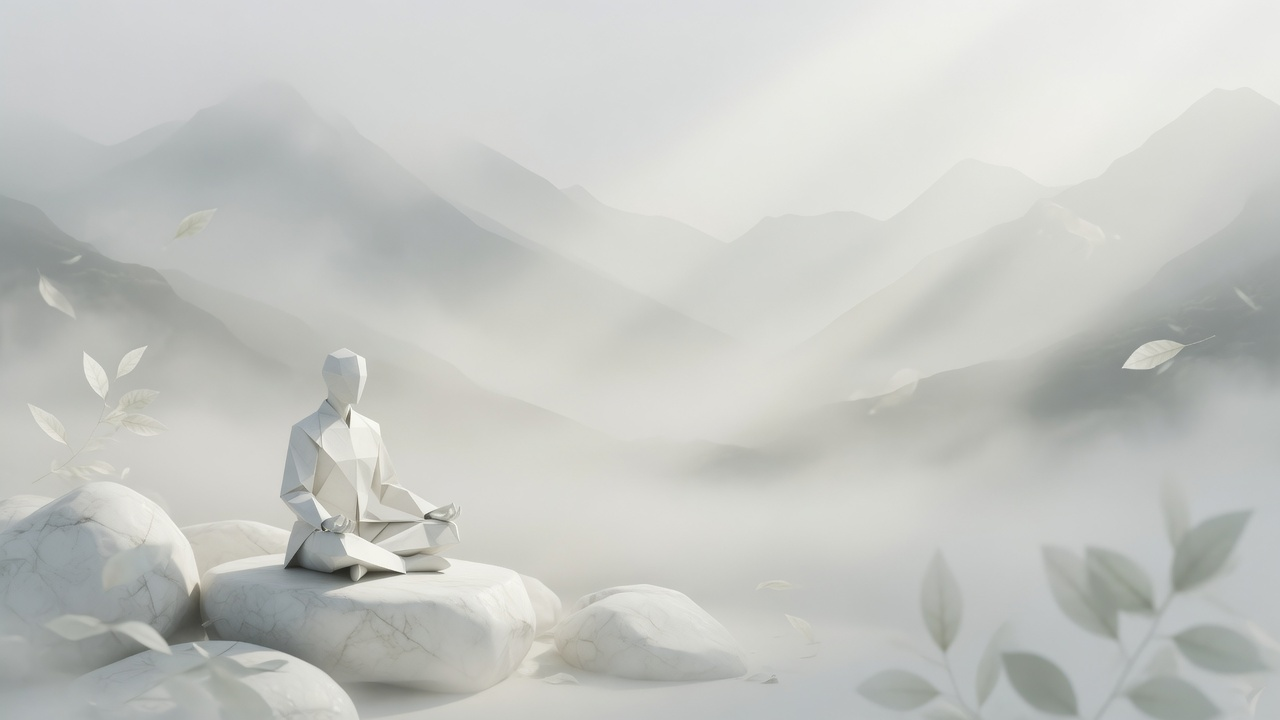
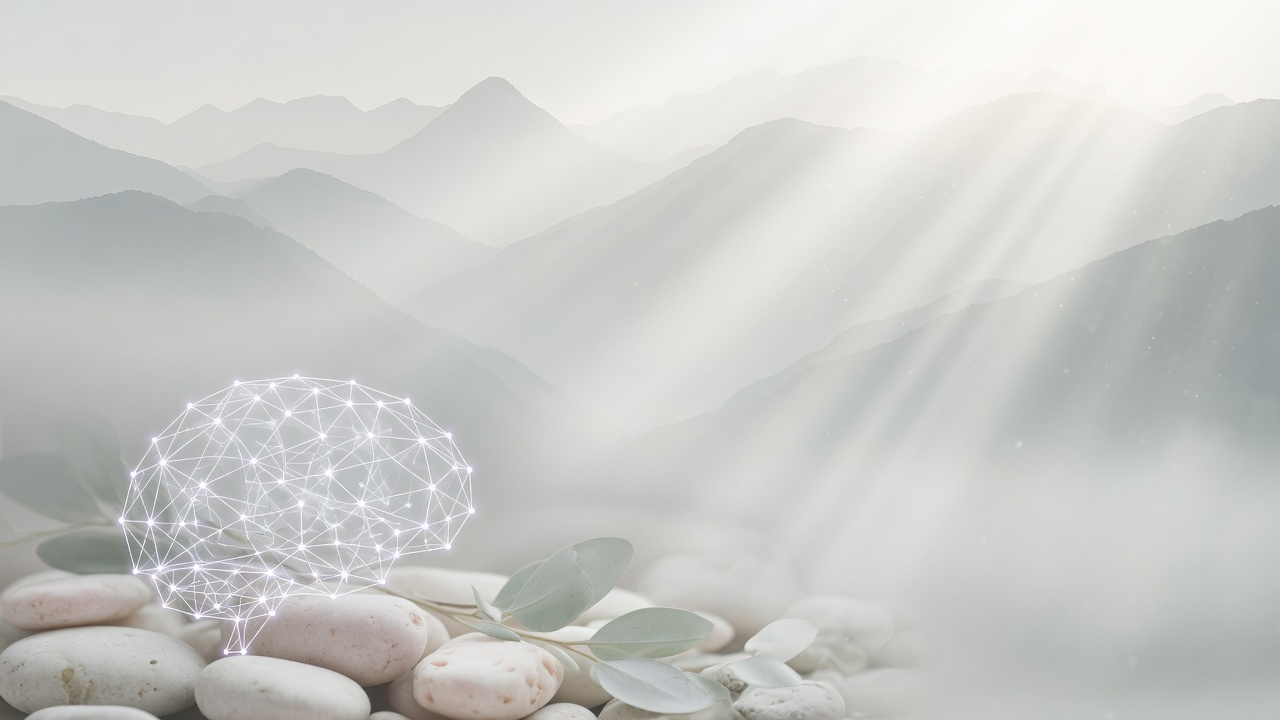
Unique neural hero art, light/dark mode, Teluk Intan roots
Replace Parva-like figure with geometric brain landscapes (light +
dark variants), add theme toggle with persistence, and correct
hometown copy to Teluk Intan.

diff --git a/index.html b/index.html
@@ -122,10 +122,11 @@ nav.scrolled{
   backdrop-filter:blur(20px) saturate(1.15);-webkit-backdrop-filter:blur(20px) saturate(1.15);
   box-shadow:0 8px 32px -20px rgba(20,27,45,.12);
 }
-.nav-inner{max-width:var(--max);margin:0 auto;padding:0 28px;height:64px;display:flex;align-items:center;justify-content:space-between}
+.nav-inner{max-width:var(--max);margin:0 auto;padding:0 28px;height:64px;display:flex;align-items:center;justify-content:space-between;gap:16px}
+.nav-actions{display:flex;align-items:center;gap:8px;margin-left:auto}
 .logo{font-family:var(--mono);font-size:.76rem;letter-spacing:.2em;color:var(--muted);text-decoration:none;transition:color .3s}
 .logo:hover{color:var(--fg)}
-.nav-links{display:flex;align-items:center;gap:28px}
+.nav-links{display:flex;align-items:center;gap:28px;margin-left:auto}
 .nav-links a{font-family:var(--mono);font-size:.66rem;letter-spacing:.1em;text-transform:uppercase;color:var(--faint);text-decoration:none;transition:color .2s}
 .nav-links a:hover{color:var(--fg)}
 .nav-cta{
@@ -160,13 +161,9 @@ body.nav-open{overflow:hidden}
   padding:110px 0 48px;overflow:hidden;
   color:var(--fg);
 }
-.hero-bg{position:absolute;inset:0;z-index:0;pointer-events:none}
-.hero-bg img{
-  width:100%;height:100%;object-fit:cover;object-position:center 62%;
-  transform:scale(1.02);
-}
+.hero-bg{position:absolute;inset:0;z-index:0;pointer-events:none;overflow:hidden}
 .hero-bg::after{
-  content:'';position:absolute;inset:0;
+  content:'';position:absolute;inset:0;z-index:1;
   background:
     linear-gradient(180deg,rgba(244,245,248,.5) 0%,rgba(244,245,248,.12) 32%,rgba(244,245,248,.05) 58%,rgba(244,245,248,.55) 88%,var(--bg) 100%),
     radial-gradient(ellipse 70% 55% at 50% 38%,rgba(255,255,255,.5),transparent 70%);
@@ -384,6 +381,7 @@ footer{border-top:1px solid var(--line);padding:80px 0 48px;background:linear-gr
 }
 @media(max-width:720px){
   .nav-links{display:none}
+  .nav-actions{margin-left:auto}
   .menu-btn{display:flex;align-items:center;justify-content:center}
   .section{padding:80px 0}
   .container{padding:0 22px}
@@ -405,7 +403,105 @@ footer{border-top:1px solid var(--line);padding:80px 0 48px;background:linear-gr
   .live-dot{animation:none}
   .card{transition:none}
 }
+
+/* Dark theme */
+html[data-theme="dark"]{
+  --bg:#0b0c10;
+  --bg-soft:#12141a;
+  --fg:#eef0f5;
+  --muted:#9aa3b5;
+  --faint:#6b7385;
+  --line:rgba(255,255,255,.08);
+  --line-strong:rgba(255,255,255,.14);
+  --accent:#8eb4ff;
+  --accent-soft:#a8c4ff;
+  --accent-2:#a8b6ff;
+  --accent-3:#c4b5fd;
+  --gold:#e0b96a;
+  --gold-soft:#e8c478;
+  --glass:rgba(18,20,28,.72);
+  --glass-strong:rgba(24,27,36,.88);
+  --shadow:0 20px 50px -28px rgba(0,0,0,.55);
+  --shadow-hover:0 28px 60px -24px rgba(0,0,0,.65);
+}
+html[data-theme="dark"] .orb-a{
+  background:radial-gradient(circle,rgba(100,140,220,.16),transparent 68%);
+}
+html[data-theme="dark"] .orb-b{
+  background:radial-gradient(circle,rgba(80,100,160,.12),transparent 70%);
+}
+html[data-theme="dark"] .vignette{
+  background:
+    radial-gradient(ellipse at 50% 0%,rgba(255,255,255,.04),transparent 55%),
+    linear-gradient(180deg,transparent 0%,rgba(11,12,16,.5) 100%);
+}
+html[data-theme="dark"] .grad{
+  background:linear-gradient(135deg,#8eb4ff,#a8b6ff 50%,#c4b5fd);
+  -webkit-background-clip:text;-webkit-text-fill-color:transparent;background-clip:text;
+}
+html[data-theme="dark"] .chip{border-color:rgba(142,180,255,.28);color:var(--accent);background:rgba(142,180,255,.1)}
+html[data-theme="dark"] .chipg{border-color:rgba(224,185,106,.3);color:var(--gold);background:rgba(224,185,106,.1)}
+html[data-theme="dark"] .btn-primary{background:#eef0f5;color:#0b0c10;box-shadow:0 16px 40px -18px rgba(142,180,255,.35)}
+html[data-theme="dark"] .btn-primary:hover{background:#fff}
+html[data-theme="dark"] .btn-ghost{background:rgba(255,255,255,.06);color:var(--muted);border-color:var(--line-strong)}
+html[data-theme="dark"] .btn-ghost:hover{background:rgba(255,255,255,.1);color:var(--fg)}
+html[data-theme="dark"] nav.scrolled{
+  background:rgba(11,12,16,.82);
+  box-shadow:0 8px 32px -20px rgba(0,0,0,.5);
+}
+html[data-theme="dark"] .nav-cta{background:rgba(255,255,255,.06)}
+html[data-theme="dark"] .nav-cta:hover{background:rgba(255,255,255,.1)}
+html[data-theme="dark"] .mobile-nav{background:rgba(11,12,16,.97)}
+html[data-theme="dark"] .hero-badge{background:rgba(18,20,28,.7);color:var(--muted)}
+html[data-theme="dark"] .hero-bg::after{
+  background:
+    linear-gradient(180deg,rgba(11,12,16,.55) 0%,rgba(11,12,16,.2) 32%,rgba(11,12,16,.15) 58%,rgba(11,12,16,.7) 88%,var(--bg) 100%),
+    radial-gradient(ellipse 70% 55% at 50% 38%,rgba(80,110,180,.12),transparent 70%);
+}
+html[data-theme="dark"] .flagship-side,
+html[data-theme="dark"] .mini-stat{background:rgba(255,255,255,.04)}
+html[data-theme="dark"] .personal .bit{background:rgba(255,255,255,.04)}
+html[data-theme="dark"] footer{background:linear-gradient(180deg,transparent,rgba(0,0,0,.25))}
+html[data-theme="dark"] ::selection{background:rgba(142,180,255,.28);color:#fff}
+html[data-theme="dark"] .theme-color-meta{color-scheme:dark}
+
+/* Hero dual backgrounds */
+.hero-bg .hero-img{position:absolute;inset:0;width:100%;height:100%;object-fit:cover;object-position:center 62%;transform:scale(1.02);transition:opacity .45s ease}
+.hero-bg .hero-img-light{opacity:1}
+.hero-bg .hero-img-dark{opacity:0}
+html[data-theme="dark"] .hero-bg .hero-img-light{opacity:0}
+html[data-theme="dark"] .hero-bg .hero-img-dark{opacity:1}
+
+/* Theme toggle */
+.theme-btn{
+  display:inline-flex;align-items:center;justify-content:center;
+  width:40px;height:40px;border-radius:999px;padding:0;
+  border:1px solid var(--line-strong);color:var(--muted);
+  background:rgba(255,255,255,.45);backdrop-filter:blur(10px);
+  transition:background .2s,color .2s,border-color .2s,box-shadow .2s;
+  flex-shrink:0;
+}
+.theme-btn:hover{color:var(--fg);border-color:rgba(20,27,45,.22);background:#fff;box-shadow:0 6px 20px -10px rgba(20,27,45,.2)}
+html[data-theme="dark"] .theme-btn{background:rgba(255,255,255,.06)}
+html[data-theme="dark"] .theme-btn:hover{background:rgba(255,255,255,.1);border-color:var(--line-strong);box-shadow:none}
+.theme-btn svg{width:18px;height:18px}
+.theme-btn .icon-moon{display:none}
+html[data-theme="dark"] .theme-btn .icon-sun{display:none}
+html[data-theme="dark"] .theme-btn .icon-moon{display:block}
+html{color-scheme:light}
+html[data-theme="dark"]{color-scheme:dark}
+
 </style>
+<script data-theme-init>
+(function(){
+  try{
+    var k='bkd-theme';
+    var s=localStorage.getItem(k);
+    var t=s||(window.matchMedia('(prefers-color-scheme: dark)').matches?'dark':'light');
+    document.documentElement.setAttribute('data-theme',t);
+  }catch(e){document.documentElement.setAttribute('data-theme','light')}
+})();
+</script>
 </head>
 <body>
 
@@ -428,9 +524,15 @@ footer{border-top:1px solid var(--line);padding:80px 0 48px;background:linear-gr
       <a href="#media">Press</a>
       <a class="nav-cta" href="mailto:[email redacted]">Contact</a>
     </div>
-    <button class="menu-btn" id="menuBtn" aria-label="Open menu" aria-expanded="false" aria-controls="mobileNav">
-      <svg viewBox="0 0 24 24" fill="none" stroke="currentColor" stroke-width="1.6" aria-hidden="true"><path d="M4 7h16M4 12h16M4 17h16"/></svg>
-    </button>
+    <div class="nav-actions">
+      <button type="button" class="theme-btn" id="themeBtn" aria-label="Toggle dark mode" title="Toggle theme">
+        <svg class="icon-sun" viewBox="0 0 24 24" fill="none" stroke="currentColor" stroke-width="1.6" aria-hidden="true"><circle cx="12" cy="12" r="4"/><path d="M12 2v2M12 20v2M4.9 4.9l1.4 1.4M17.7 17.7l1.4 1.4M2 12h2M20 12h2M4.9 19.1l1.4-1.4M17.7 6.3l1.4-1.4"/></svg>
+        <svg class="icon-moon" viewBox="0 0 24 24" fill="none" stroke="currentColor" stroke-width="1.6" aria-hidden="true"><path d="M21 14.5A8.5 8.5 0 1 1 9.5 3a7 7 0 0 0 11.5 11.5z"/></svg>
+      </button>
+      <button class="menu-btn" id="menuBtn" aria-label="Open menu" aria-expanded="false" aria-controls="mobileNav">
+        <svg viewBox="0 0 24 24" fill="none" stroke="currentColor" stroke-width="1.6" aria-hidden="true"><path d="M4 7h16M4 12h16M4 17h16"/></svg>
+      </button>
+    </div>
   </div>
 </nav>
 <div class="mobile-nav" id="mobileNav">
@@ -445,7 +547,8 @@ footer{border-top:1px solid var(--line);padding:80px 0 48px;background:linear-gr
 
 <section class="hero" id="hero">
   <div class="hero-bg" aria-hidden="true">
-    <img src="assets/hero-bg.jpg" alt="" width="1280" height="720" fetchpriority="high" decoding="async"/>
+    <img class="hero-img hero-img-light" src="assets/hero-bg.jpg" alt="" width="1280" height="720" fetchpriority="high" decoding="async"/>
+    <img class="hero-img hero-img-dark" src="assets/hero-bg-dark.jpg" alt="" width="1280" height="720" decoding="async"/>
   </div>
   <div class="container">
     <div class="hero-center">
@@ -853,12 +956,12 @@ footer{border-top:1px solid var(--line);padding:80px 0 48px;background:linear-gr
     <div class="personal reveal">
       <div>
         <div class="label">Off the page</div>
-        <h3>Kuala Lumpur roots.<br>London lab days.</h3>
+        <h3>Teluk Intan roots.<br>London lab days.</h3>
       </div>
       <div>
         <p>I grew up in Malaysia and work in London. When the models are training overnight, I think about the long tables I grew up around: too much food, everyone's talking, zero small plates.</p>
         <div class="bits" style="margin-top:16px">
-          <span class="bit">🇲🇾 Malaysia · Perak / KL</span>
+          <span class="bit">🇲🇾 Malaysia · Teluk Intan, Perak</span>
           <span class="bit">🇬🇧 London</span>
           <span class="bit">Still hunting a proper kopitiam soft-boiled egg in Zone 1</span>
         </div>
@@ -883,7 +986,7 @@ footer{border-top:1px solid var(--line);padding:80px 0 48px;background:linear-gr
     </div>
     <div class="foot-bot">
       <p>© 2026 BALVINDER KAUR DHILLON</p>
-      <p>LONDON · KUALA LUMPUR</p>
+      <p>LONDON · TELUK INTAN</p>
     </div>
   </div>
 </footer>
@@ -895,6 +998,31 @@ footer{border-top:1px solid var(--line);padding:80px 0 48px;background:linear-gr
   function onScroll(){nav.classList.toggle('scrolled',window.scrollY>20)}
   window.addEventListener('scroll',onScroll,{passive:true});
   onScroll();
+
+  /* Theme: light / dark */
+  (function(){
+    var KEY='bkd-theme';
+    var btn=document.getElementById('themeBtn');
+    var meta=document.querySelector('meta[name="theme-color"]');
+    function current(){return document.documentElement.getAttribute('data-theme')||'light'}
+    function apply(t){
+      document.documentElement.setAttribute('data-theme',t);
+      try{localStorage.setItem(KEY,t)}catch(e){}
+      if(meta)meta.setAttribute('content',t==='dark'?'#0b0c10':'#f4f5f8');
+      if(btn){
+        btn.setAttribute('aria-label',t==='dark'?'Switch to light mode':'Switch to dark mode');
+        btn.setAttribute('title',t==='dark'?'Light mode':'Dark mode');
+      }
+    }
+    if(btn){
+      btn.addEventListener('click',function(){
+        apply(current()==='dark'?'light':'dark');
+      });
+    }
+    // sync if system preference changes and user has no explicit choice? keep stored preference
+    apply(current());
+  })();
+
 
   var btn=document.getElementById('menuBtn');
   var mob=document.getElementById('mobileNav');